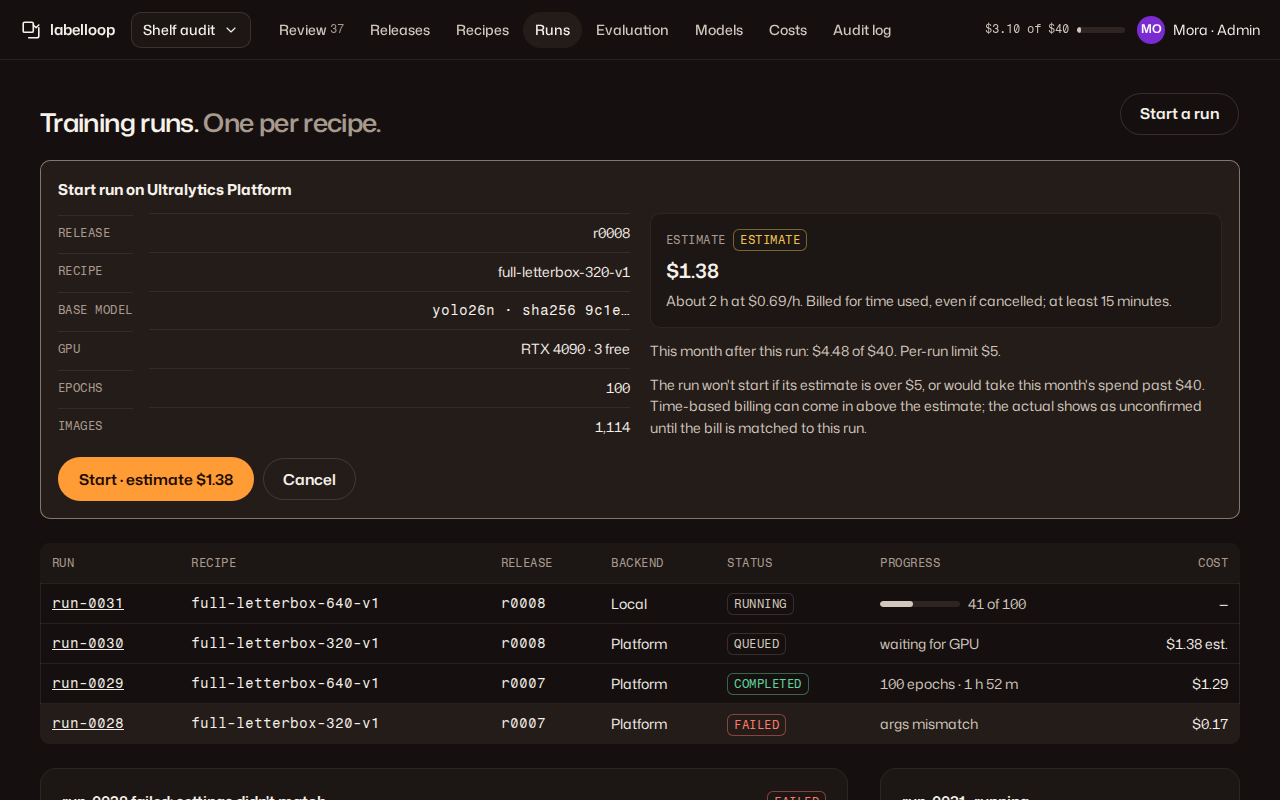
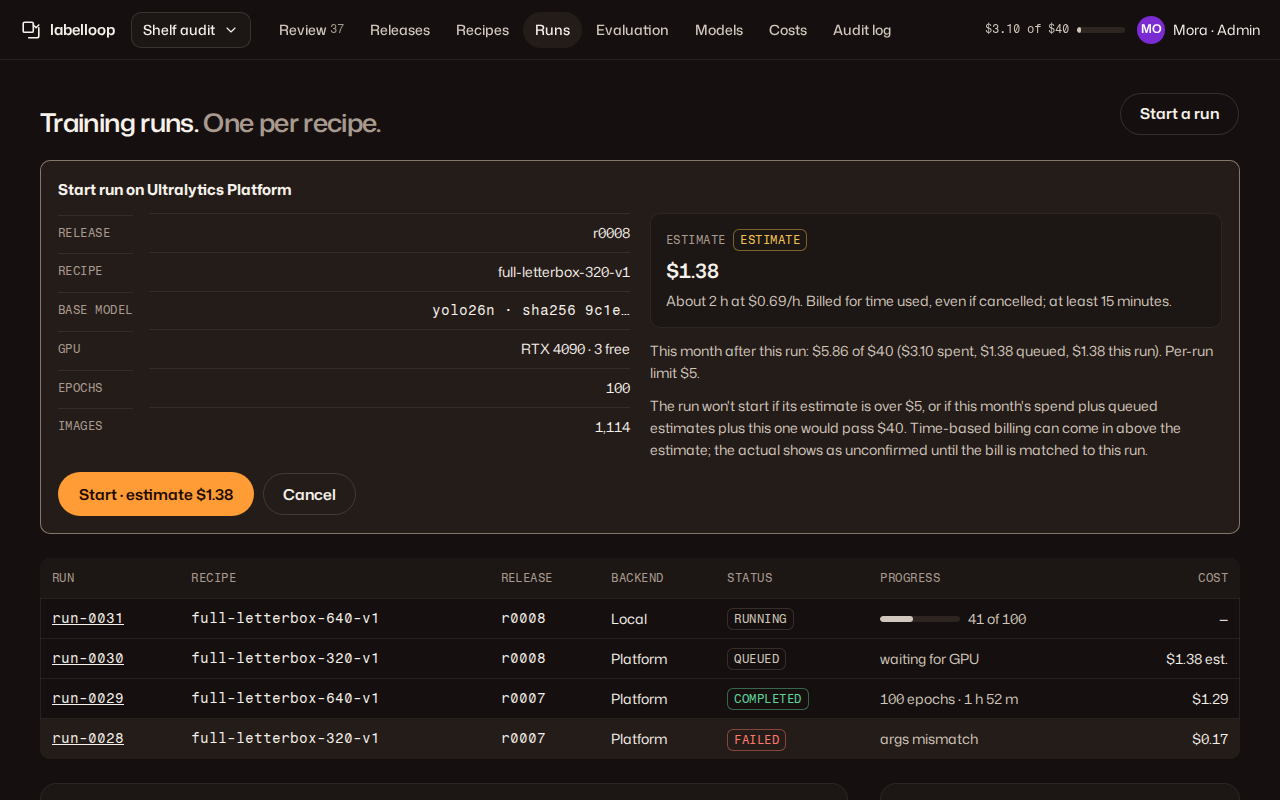
docs(design): monthly limit counts queued reservations

diff --git a/docs/design/screens/05-training-runs.md b/docs/design/screens/05-training-runs.md
@@ -14,7 +14,7 @@ An admin starts a run for a release and recipe, follows it, and sees whether the
 
 ## The start panel (J20)
 
-Fields: release, recipe (one run per recipe; two recipes = two runs), backend, base model with hash, GPU (Platform: always explicit, with availability), epochs, image count. Estimate tile with "Estimate" tag, price basis and billing rule. Month total after the run and the per-run limit. Ceiling line: "The run won't start if its estimate is over $5 per operation, or would take this month's spend past the $40 limit. Time-based billing can come in above the estimate; the actual shows as unconfirmed until the bill is matched to this run." The button names the estimate, never a cap (kit J20). Over any limit: no primary; danger notice names the limit with a link to Costs (plan §12.1). With "Spend without asking" on, the panel still shows and starts on one click inside limits.
+Fields: release, recipe (one run per recipe; two recipes = two runs), backend, base model with hash, GPU (Platform: always explicit, with availability), epochs, image count. Estimate tile with "Estimate" tag, price basis and billing rule. Month total after the run and the per-run limit. Ceiling line: "The run won't start if its estimate is over $5 per operation, or if this month's spend, plus estimates reserved for queued work, plus this estimate would pass the $40 limit. Time-based billing can come in above the estimate; the actual shows as unconfirmed until the bill is matched to this run." The button names the estimate, never a cap (kit J20). Over any limit: no primary; danger notice names the limit with a link to Costs (plan §12.1). With "Spend without asking" on, the panel still shows and starts on one click inside limits.
 
 ## Run detail
 

diff --git a/docs/design/screens/09-costs.md b/docs/design/screens/09-costs.md
@@ -20,7 +20,7 @@ J13 table, newest first: UTC time, operation (kind · object · recipe), approve
 
 - A12 "Spend without asking", default off. Consequence line: "Off: every paid step waits for a person to approve its estimate. On: steps run inside the limits below, and each one still writes its estimate first."
 - Limits: monthly, per iteration, per operation (required before any paid operation; empty = paid steps unavailable with "Set a monthly limit first"). Help: "An operation over any limit is refused, never queued."
-- Turning the switch on confirms in place and names the limits: "labelloop starts paid steps without asking while each estimate is $5 or less and this month's spend plus the estimate stays within $40. Actual billing can come in above an estimate. *Turn on* · Cancel". The limits are checked against estimates, so the copy never calls them a cap on what is billed (plan §12.1).
+- Turning the switch on confirms in place and names the limits: "labelloop starts paid steps without asking while each estimate is $5 or less and this month's spend, plus estimates reserved for queued work, plus the new estimate stays within $40. Actual billing can come in above an estimate. *Turn on* · Cancel". The limits are checked against estimates, so the copy never calls them a cap on what is billed (plan §12.1).
 
 ## States
 
